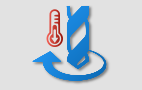
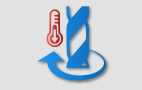
Flattened spindle graphics + updated virtual bed graphic

diff --git a/src/asmcnc/apps/maintenance_app/widget_maintenance_spindle_settings.py b/src/asmcnc/apps/maintenance_app/widget_maintenance_spindle_settings.py
@@ -138,7 +138,7 @@ Builder.load_string("""
         BoxLayout: 
             size_hint: (None, None)
             # pos: self.parent.pos
-            height: dp(60) # 62 high image
+            height: dp(60)
             width: dp(160)
             padding: [dp(56), dp(5), dp(40), dp(5)] # 15 padding
 
